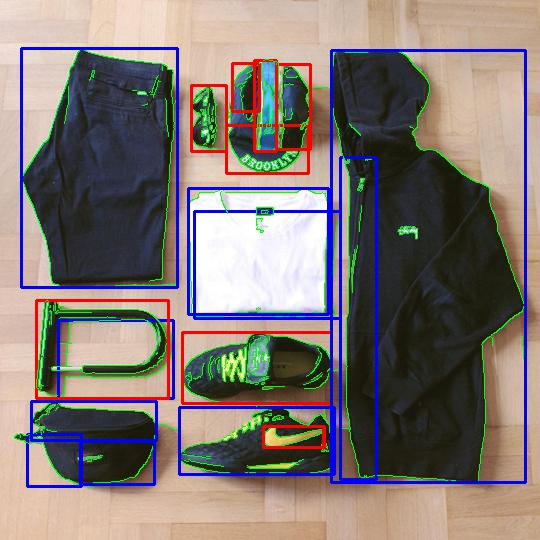
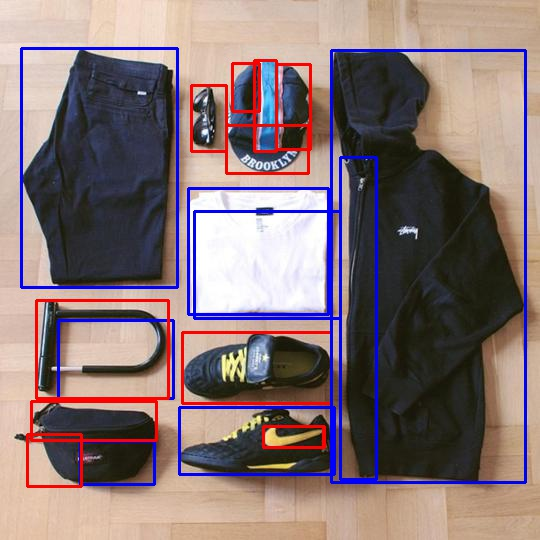
Corrected Naive Bayes algo, removed green contours in output

diff --git a/process.py b/process.py
@@ -10,60 +10,57 @@ INPUT_DIR = 'input/'
 OUTPUT_DIR = 'output/'
 
 # Retrieved from process_training_images.py
-def process_image(image, id):
-    # Load image
-    img = image.copy()
-    imgray = cv2.cvtColor(img,cv2.COLOR_BGR2GRAY)
+def process_image(img, id):
+	# Load image
+	orig = img.copy()
+	imgray = cv2.cvtColor(img,cv2.COLOR_BGR2GRAY)
 
-    # Perform canny
-    edges = cv2.Canny(imgray,100,200)
+	# Perform canny
+	edges = cv2.Canny(imgray,100,200)
 
-    # Find contours
-    ret,thresh = cv2.threshold(edges,100,200,0)
-    image, contours, hierarchy = cv2.findContours(thresh,cv2.RETR_TREE,cv2.CHAIN_APPROX_SIMPLE)
+	# Find contours
+	ret,thresh = cv2.threshold(edges,100,200,0)
+	image, contours, hierarchy = cv2.findContours(thresh,cv2.RETR_TREE,cv2.CHAIN_APPROX_SIMPLE)
 
-    # Draw contours
-    for i in range(len(contours)):
-        image = cv2.drawContours(img, contours, i, (0,255,0), 1)
-        x,y,w,h = cv2.boundingRect(contours[i])
-        
-        # Arbitrary threshold height and width is 20, 20:
-        if h>20 and w>20: 
-            feature_vector = process_image_component(image[y:y+h, x:x+w])
-            is_object = check_objectivity(feature_vector)
-            # if is_object==1: blue rectangle, else red
-            if is_object == 1:
-                cv2.rectangle(image, (x, y), (x+w, y+h), (255,0,0), 2)
-            else:
-                cv2.rectangle(image, (x, y), (x+w, y+h), (0,0,255), 2)
-
-    cv2.imshow('Annotated Image', image)
-    output_name = OUTPUT_DIR + str(id) + '.jpg'
-    cv2.imwrite(output_name, image)
-    cv2.waitKey(0)
+	# Draw contours
+	for i in range(len(contours)):
+		image = cv2.drawContours(img, contours, i, (0,255,0), 1)
+		x,y,w,h = cv2.boundingRect(contours[i])
+		
+		# Arbitrary threshold height and width is 20, 20:
+		if h>20 and w>20: 
+			feature_vector = process_image_component(image[y:y+h, x:x+w])
+			is_object = check_objectivity(feature_vector)
+			# if is_object==1: blue rectangle, else red
+			if is_object == 1:
+				cv2.rectangle(orig, (x, y), (x+w, y+h), (255,0,0), 2)
+			else:
+				cv2.rectangle(orig, (x, y), (x+w, y+h), (0,0,255), 2)
+	
+	output_name = OUTPUT_DIR + str(id) + '.jpg'
+	cv2.imwrite(output_name, orig)
 
 # Adjusts a cropped component of an image, and retrieves/returns its feature vector
 # Retrieved from generate_training_csv.py
 def process_image_component(src):
-    src = cv2.GaussianBlur( src, (3,3), 0 );    
-    src_gray = cv2.cvtColor(src ,cv2.COLOR_BGR2GRAY);
+	src = cv2.GaussianBlur( src, (3,3), 0 );    
+	src_gray = cv2.cvtColor(src ,cv2.COLOR_BGR2GRAY);
 
-    # Retrieve X Gradient
-    grad_x = cv2.Sobel( src_gray, cv2.CV_16S, 1, 0, 3 );
-    abs_grad_x = cv2.convertScaleAbs( grad_x );
+	# Retrieve X Gradient
+	grad_x = cv2.Sobel( src_gray, cv2.CV_16S, 1, 0, 3 );
+	abs_grad_x = cv2.convertScaleAbs( grad_x );
 
-    # Retrieve Y Gradient
-    grad_y = cv2.Sobel( src_gray, cv2.CV_16S, 0, 1, 3 );
-    abs_grad_y = cv2.convertScaleAbs( grad_y );
+	# Retrieve Y Gradient
+	grad_y = cv2.Sobel( src_gray, cv2.CV_16S, 0, 1, 3 );
+	abs_grad_y = cv2.convertScaleAbs( grad_y );
 
-    # Retrieve Approximate Total Gradient
-    grad = cv2.addWeighted( abs_grad_x, 0.5, abs_grad_y, 0.5, 0 );
-    resized = cv2.resize(grad, (8,8))
+	# Retrieve Approximate Total Gradient
+	grad = cv2.addWeighted( abs_grad_x, 0.5, abs_grad_y, 0.5, 0 );
+	resized = cv2.resize(grad, (8,8))
 
-    val_list = get_feature_vector (resized)
-    
-    return val_list
-    
+	val_list = get_feature_vector (resized)
+
+	return val_list
 
 # Returns a feature vector of an image in form of a list with 64 elements/dimensions
 # To be called in the process_image_component method
@@ -79,44 +76,52 @@ def get_feature_vector(src):
 
 # Actual NB algorithm. Returns 1 if the image is an object and 0 otherwise.
 def check_objectivity(feature_vector):
-    positive_mean = process_training_data('positive_mean')
-    negative_mean = process_training_data('negative_mean')
-    variance = process_training_data('variance')
-    sum_positive = 0
-    sum_negative = 0
-    for i in range(len(feature_vector)):
-        base = 1 / math.sqrt(2 * math.pi * float(variance[i]))
-        positive_mult = math.e * ((-1 * (float(feature_vector[i]) - float(positive_mean[i])) ** 2) / (2 * float(variance[i])))
-        negative_mult = math.e * ((-1 * (float(feature_vector[i]) - float(negative_mean[i])) ** 2) / (2 * float(variance[i])))
+	positive_mean = process_training_data('positive_mean')
+	negative_mean = process_training_data('negative_mean')
 
-        sum_positive = sum_positive + (base * positive_mult)
-        sum_negative = sum_negative + (base * negative_mult)
+	variance_pos = process_training_data('variance_pos')
+	variance_neg = process_training_data('variance_neg')
 
-    if sum_positive > sum_negative:
-        return 1
-    else:
-        return 0
+	prod_positive = 1.0
+	prod_negative = 1.0
+	for i in range(len(feature_vector)):
+		base_pos = 1 / math.sqrt(2 * math.pi * float(variance_pos[i]))
+		base_neg = 1 / math.sqrt(2 * math.pi * float(variance_neg[i]))
+		
+		positive_mult = math.e ** ((-1 * (float(feature_vector[i]) - float(positive_mean[i])) ** 2) / (2 * float(variance_pos[i])))
+		negative_mult = math.e ** ((-1 * (float(feature_vector[i]) - float(negative_mean[i])) ** 2) / (2 * float(variance_neg[i])))
+		
+		prod_positive = prod_positive * (base_pos * positive_mult)
+		prod_negative = prod_negative * (base_neg * negative_mult)
+	
+	prod_positive = prod_positive * POSITIVE_PROBABILITY;
+	prod_negative = prod_negative * NEGATIVE_PROBABILITY;
+	
+	if prod_positive > prod_negative:
+		return 1
+	else:
+		return 0
 
 # Retrieves mean and variance information
 # Called in the check_objectivity method
 def process_training_data (file_name):
-    file_address = 'data/training_data/' + file_name + '.txt'
-    training_data = open(file_address,'r')
-    dimension_data = []
-    for dimension in training_data:
-        dimension_data.append(dimension)
+	file_address = 'data/training_data/' + file_name + '.txt'
+	training_data = open(file_address,'r')
+	dimension_data = []
+	for dimension in training_data:
+		dimension_data.append(dimension)
 
-    return dimension_data
+	return dimension_data
 
 # Returns a list of images found in a directory
 def load_images_from_folder (folder):
-    images = []
-    for filename in os.listdir(folder):
-        img = cv2.imread(os.path.join(folder,filename))
-        if img is not None:
-            images.append(img)
-    return images
+	images = []
+	for filename in os.listdir(folder):
+		img = cv2.imread(os.path.join(folder,filename))
+		if img is not None:
+			images.append(img)
+	return images
 
 images = load_images_from_folder (INPUT_DIR)
 for i, image in enumerate(images):
-    process_image(image, i)
+	process_image(image, i)

diff --git a/README.md b/README.md
@@ -20,13 +20,14 @@ A program that uses Naive Bayes classification and OpenCV functionalities to sol
 │   │   ├── output.csv
 │   │   ├── negative_mean.txt
 │   │   ├── positive_mean.txt
-│   │   ├── variance.txt
+│   │   ├── variance_pos.txt
+│   │   ├── variance_neg.txt
 ├── generate_training_csv.py
 ├── process.py - Main driver file
 ├── process_training_images.py
 ```
 
-## Files
+## Scripts
 * **process_training_images.py**
   * Processes images in the *data/input* folder by cropping them according to the bounding rectangles of contours. The cropped results in the *data/output* folder will manually be classified into objects (*data/positives*) and non-objects (*data/negatives*).
 * **generate_training_csv.py**
